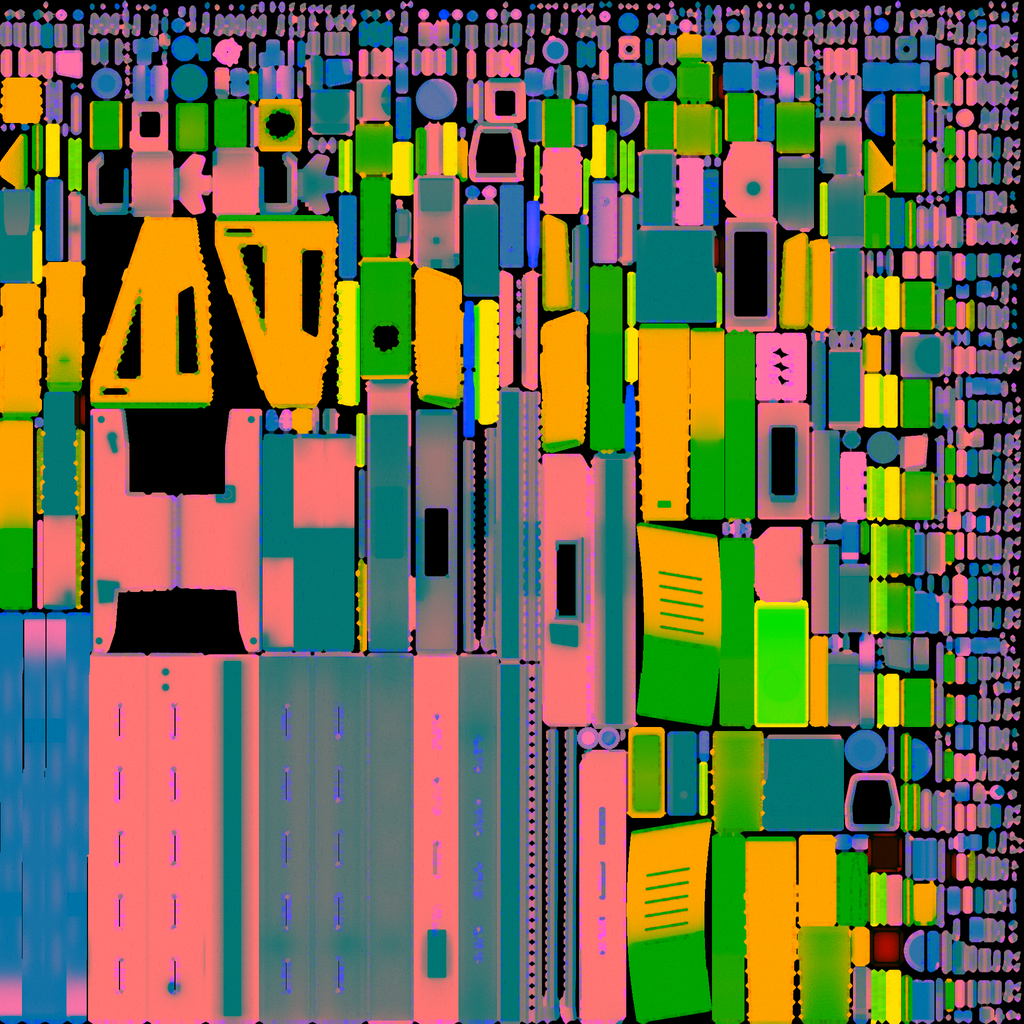
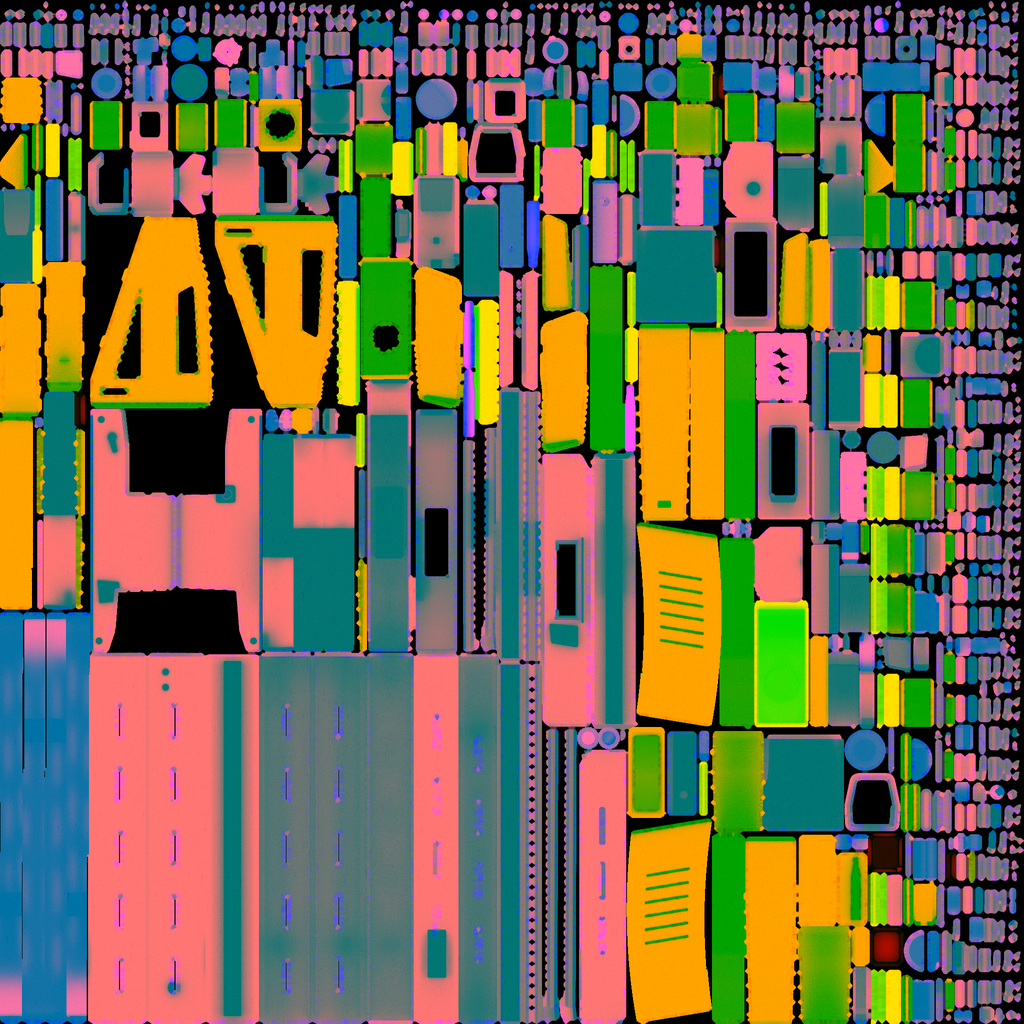
Fix the black pulled magazine: re-bake its occlusion on its own
The magazine went black in backlight, shade and dark scenes (median luma 2-4
of 255). The cause was not weak lighting: its baked occlusion was computed
with it seated in the magwell, so the faces that were inside the well were
fully occluded (albedo median 109, occlusion median 0 over the visible
pixels) and were black as soon as reload pulled it out.

- tools/art/rebake_part_ao.py re-bakes one object's occlusion from the
  retained unwrapped blend with the rest hidden (black and white canvases
  give the UV islands exactly); patch_part_ao.py merges it on those texels.
- relay_ar_orm.png: red channel in the magazine's islands only. Regenerating
  from the unpatched bake reproduced the shipped albedo, ORM and normal byte
  for byte first; albedo, normal and the GLB are unchanged.
- weapon_art_test 109 -> 111: at most 10 % of the magazine's vertices below
  0.1 occlusion and a mean of at least 0.70 (the old texture: 23.7 %, 0.585).
- tests/viewmodel_light_probe.gd measures each part's visible luma per
  lighting scenario and pose from real frames (native display).

Backlight mid-reload 4 -> 59, shade 2 -> 56, dark interior 2 -> 33; no other
part changed by more than 3 luma; the inspection render differs by 1 pixel.
A view-space fill was built, swept and removed: 1-3 luma in the darkest scene
at the cost of sunlit values. validate.sh exit 0.

Claude-Session: https://claude.ai/code/session_01SpaewVrDfSTExz4E88EYmG

diff --git a/tools/art/rebake_part_ao.py b/tools/art/rebake_part_ao.py
@@ -1,0 +1,67 @@
+"""Re-bake the ambient occlusion of one part of an unwrapped bake, with the rest of the
+model hidden, so only the part's own occlusion is left.
+
+python rebake_part_ao.py <bake_dir/name.blend> <object> <out_dir> [--size 2048] [--samples 48]
+
+Why: bake.py bakes occlusion with every part in place. A part that moves in game (the
+magazine, which reload pulls out of the magwell) is baked while seated, so the faces that
+were inside the well come out fully occluded and are black the moment the part is pulled
+out. The occlusion of such a part should be its own.
+
+Writes <out_dir>/<object>_ao_on_black.png and <object>_ao_on_white.png: the same bake onto
+a black and onto a white canvas. A texel that belongs to the part's UV islands (and their
+bleed margin) is identical in both; every other texel is black in one and white in the
+other, so the islands are exactly the texels where the two agree, even where the occlusion
+itself is 0. patch_part_ao.py merges them into a full bake. Run with Blender's Python (bpy).
+"""
+import pathlib
+import sys
+import bpy
+
+args = sys.argv[sys.argv.index('--') + 1:] if '--' in sys.argv else sys.argv[1:]
+size, samples = 2048, 48
+if '--size' in args:
+    i = args.index('--size'); size = int(args[i + 1]); del args[i:i + 2]
+if '--samples' in args:
+    i = args.index('--samples'); samples = int(args[i + 1]); del args[i:i + 2]
+blend, part, out = pathlib.Path(args[0]).resolve(), args[1], pathlib.Path(args[2]).resolve()
+out.mkdir(parents=True, exist_ok=True)
+
+bpy.ops.wm.open_mainfile(filepath=str(blend))
+scene = bpy.context.scene
+scene.render.engine = 'CYCLES'
+scene.cycles.device = 'CPU'
+scene.cycles.samples = samples
+# The same contact distance bake.py uses.
+scene.world.light_settings.distance = 0.035
+target = bpy.data.objects[part]
+for obj in bpy.data.objects:
+    if obj.type == 'MESH' and obj is not target:
+        obj.hide_render = True
+        obj.hide_viewport = True
+target.hide_render = False
+bpy.ops.object.select_all(action='DESELECT')
+target.select_set(True)
+bpy.context.view_layer.objects.active = target
+margin = max(4, size // 256)
+
+
+def bake_onto(fill, label):
+    image = bpy.data.images.new(f'{part}_{label}', size, size, alpha=False)
+    image.generated_color = (fill, fill, fill, 1.0)
+    image.colorspace_settings.name = 'Non-Color'
+    for material in target.data.materials:
+        tree = material.node_tree
+        node = tree.nodes.get('bake_target') or tree.nodes.new('ShaderNodeTexImage')
+        node.name = 'bake_target'
+        node.image = image
+        tree.nodes.active = node
+    bpy.ops.object.bake(type='AO', margin=margin, use_clear=False, target='IMAGE_TEXTURES')
+    image.filepath_raw = str(out / f'{part}_{label}.png')
+    image.file_format = 'PNG'
+    image.save()
+    print('BAKED', label, out / f'{part}_{label}.png')
+
+
+bake_onto(0.0, 'ao_on_black')
+bake_onto(1.0, 'ao_on_white')

diff --git a/tools/art/patch_part_ao.py b/tools/art/patch_part_ao.py
@@ -1,0 +1,29 @@
+"""Merge a part's re-baked occlusion (rebake_part_ao.py) into a full occlusion bake.
+
+python3 patch_part_ao.py <occlusion_raw.png> <part_ao_on_black.png> <part_ao_on_white.png> <out.png>
+
+The part's UV islands (with their bleed margin) are the texels where the black-canvas and
+white-canvas bakes agree; there the part's own occlusion replaces the full bake's, and
+every other texel is left exactly as it was. Prints how much of the part's surface was
+nearly fully occluded before and after. Requires Pillow and NumPy (system Python).
+"""
+import sys
+import numpy as np
+from PIL import Image
+
+full_path, black_path, white_path, out_path = sys.argv[1:5]
+full = np.asarray(Image.open(full_path).convert('L'), dtype=np.float32) / 255.0
+black = np.asarray(Image.open(black_path).convert('L'), dtype=np.float32) / 255.0
+white = np.asarray(Image.open(white_path).convert('L'), dtype=np.float32) / 255.0
+assert full.shape == black.shape == white.shape, 'bakes must share one resolution'
+
+island = np.abs(black - white) < 0.02
+own = black
+patched = np.where(island, own, full)
+dark_before = float((full[island] < 0.1).mean())
+dark_after = float((patched[island] < 0.1).mean())
+print('island texels: %d (%.1f %% of the atlas)' % (island.sum(), 100.0 * island.mean()))
+print('mean occlusion over the part: %.3f -> %.3f' % (full[island].mean(), patched[island].mean()))
+print('texels below 0.1 over the part: %.1f %% -> %.1f %%' % (100 * dark_before, 100 * dark_after))
+Image.fromarray(np.clip(patched * 255.0 + 0.5, 0, 255).astype(np.uint8), 'L').save(out_path)
+print('WROTE', out_path)
